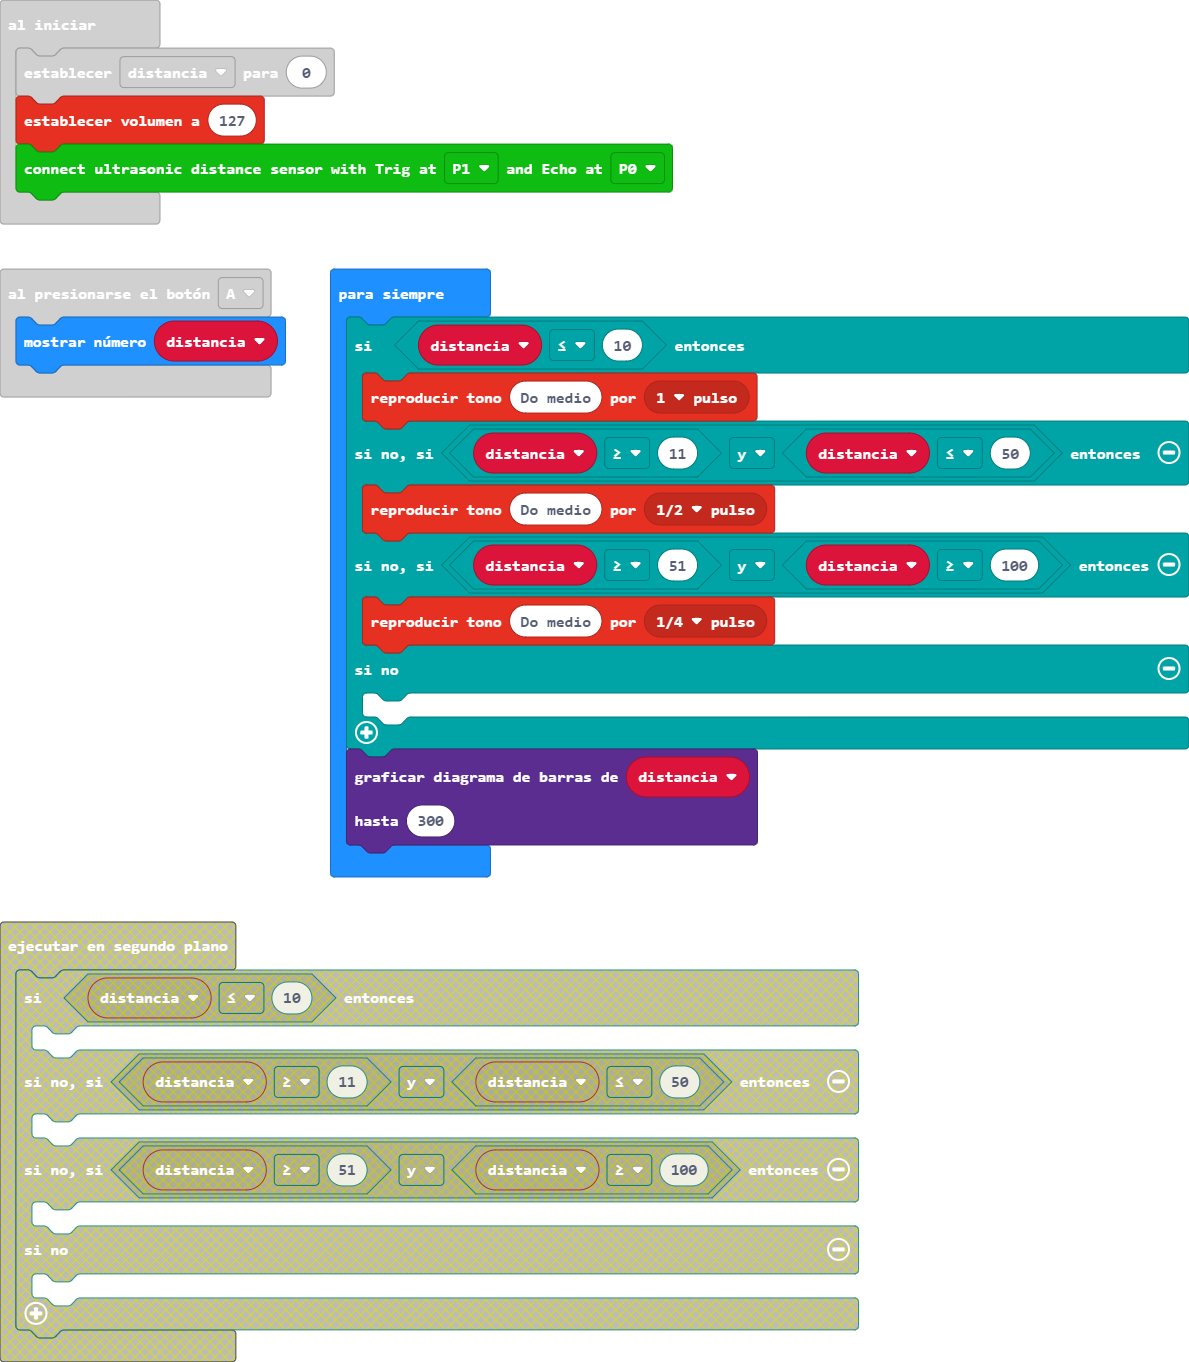
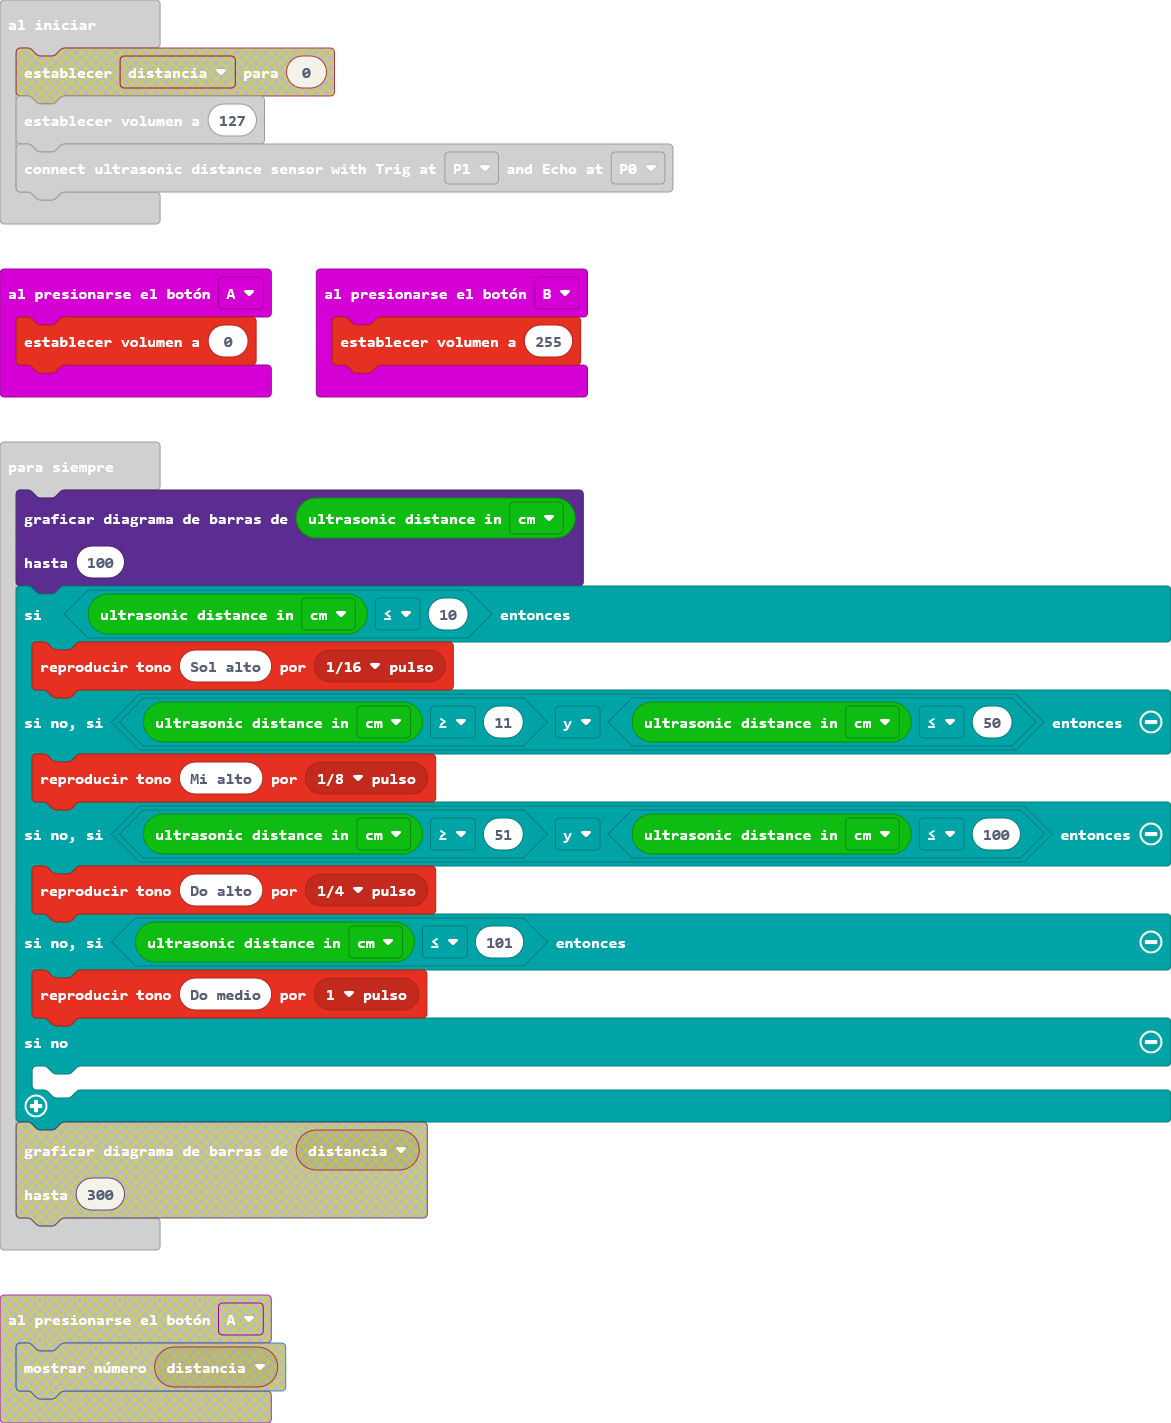
Actualizar main.blocks, main.ts

diff --git a/main.ts b/main.ts
@@ -1,22 +1,25 @@
 input.onButtonPressed(Button.A, function () {
-    basic.showNumber(distancia)
+    music.setVolume(0)
 })
-let distancia = 0
-distancia = 0
+input.onButtonPressed(Button.B, function () {
+    music.setVolume(255)
+})
 music.setVolume(127)
 makerbit.connectUltrasonicDistanceSensor(DigitalPin.P1, DigitalPin.P0)
 basic.forever(function () {
-    if (distancia <= 10) {
+    led.plotBarGraph(
+    makerbit.getUltrasonicDistance(DistanceUnit.CM),
+    100
+    )
+    if (makerbit.getUltrasonicDistance(DistanceUnit.CM) <= 10) {
+        music.playTone(784, music.beat(BeatFraction.Sixteenth))
+    } else if (makerbit.getUltrasonicDistance(DistanceUnit.CM) >= 11 && makerbit.getUltrasonicDistance(DistanceUnit.CM) <= 50) {
+        music.playTone(659, music.beat(BeatFraction.Eighth))
+    } else if (makerbit.getUltrasonicDistance(DistanceUnit.CM) >= 51 && makerbit.getUltrasonicDistance(DistanceUnit.CM) <= 100) {
+        music.playTone(523, music.beat(BeatFraction.Quarter))
+    } else if (makerbit.getUltrasonicDistance(DistanceUnit.CM) <= 101) {
         music.playTone(262, music.beat(BeatFraction.Whole))
-    } else if (distancia >= 11 && distancia <= 50) {
-        music.playTone(262, music.beat(BeatFraction.Half))
-    } else if (distancia >= 51 && distancia >= 100) {
-        music.playTone(262, music.beat(BeatFraction.Quarter))
     } else {
     	
     }
-    led.plotBarGraph(
-    distancia,
-    300
-    )
 })
